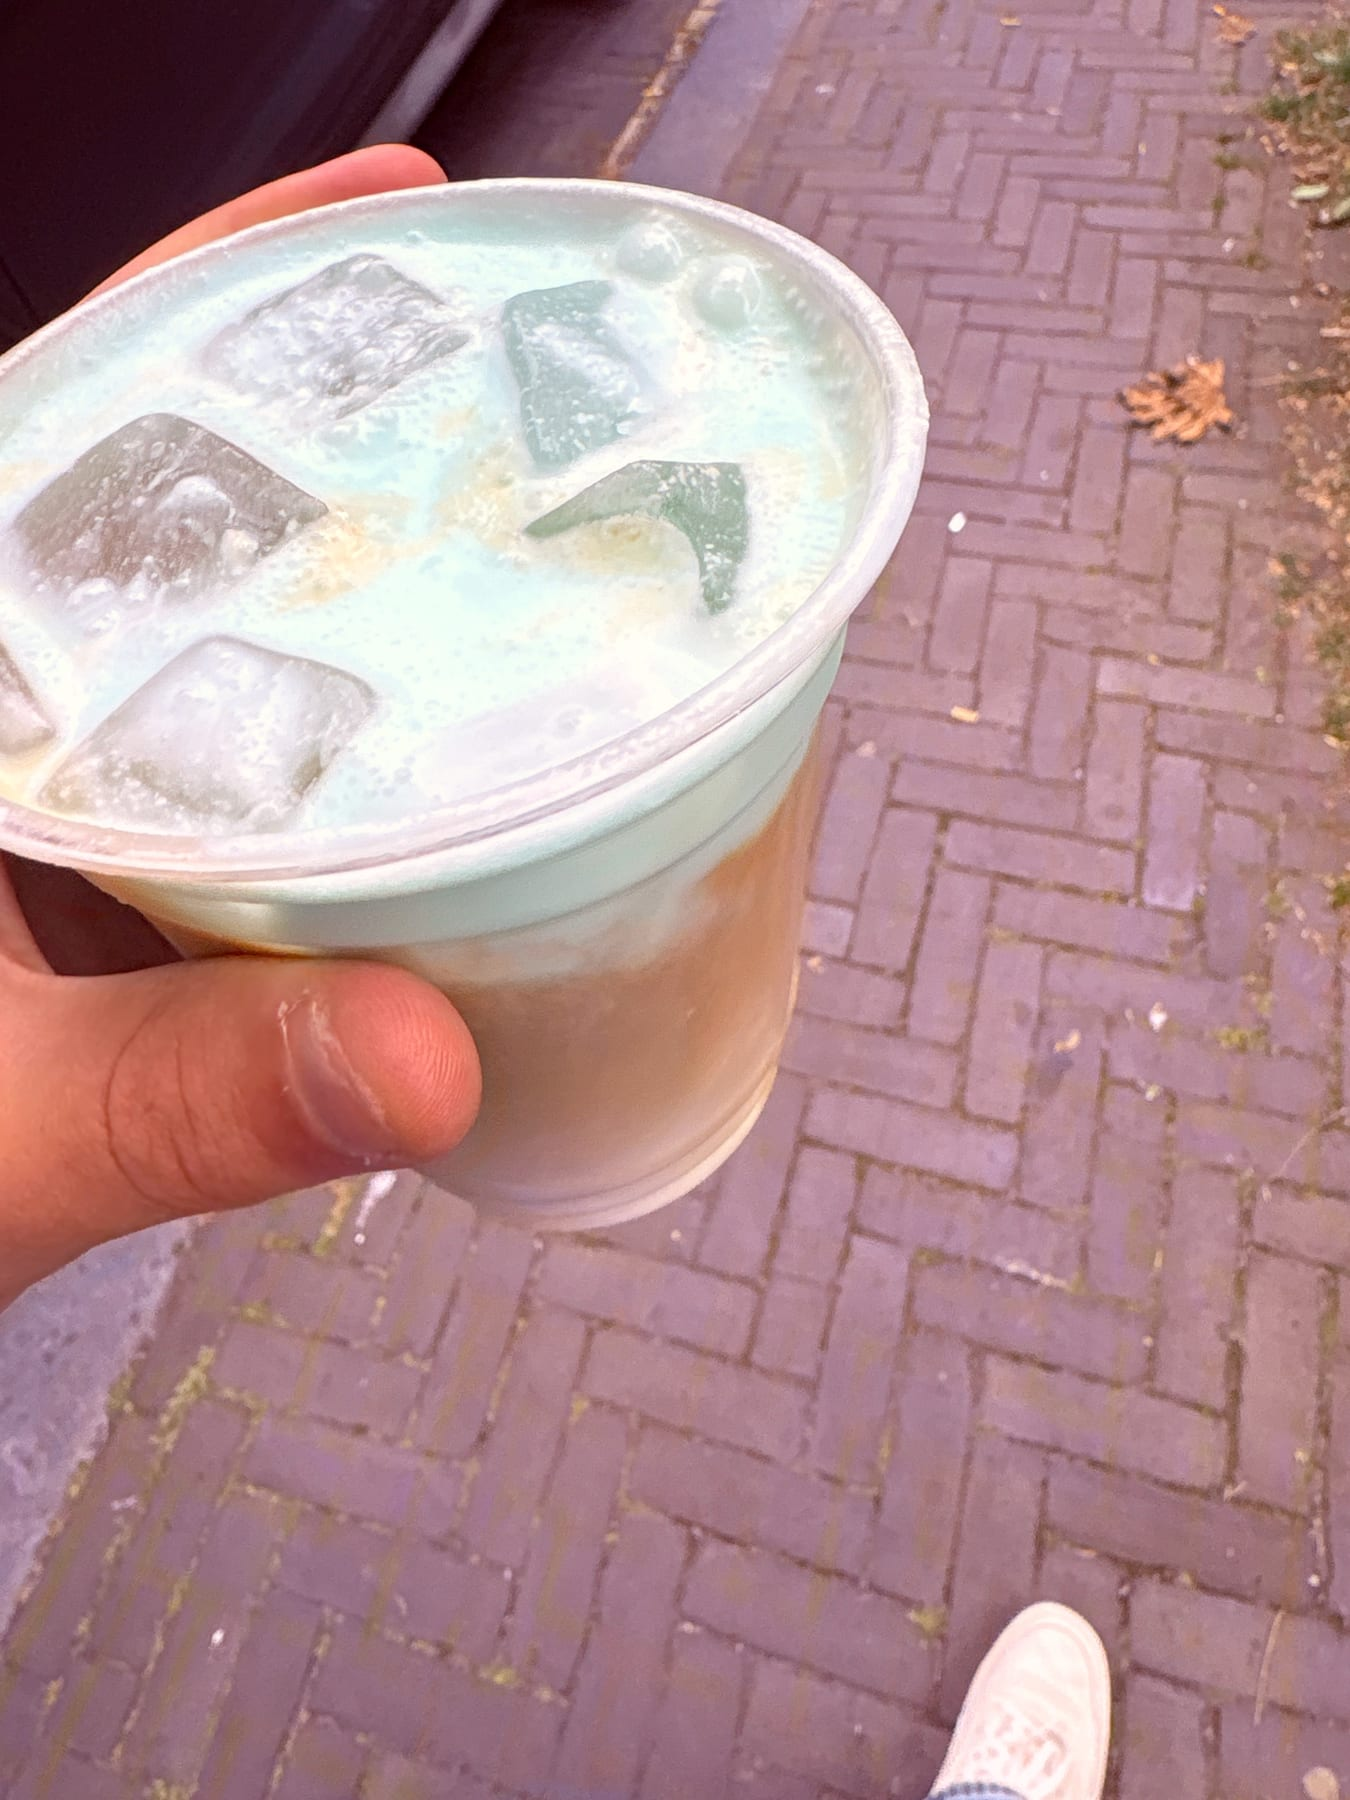
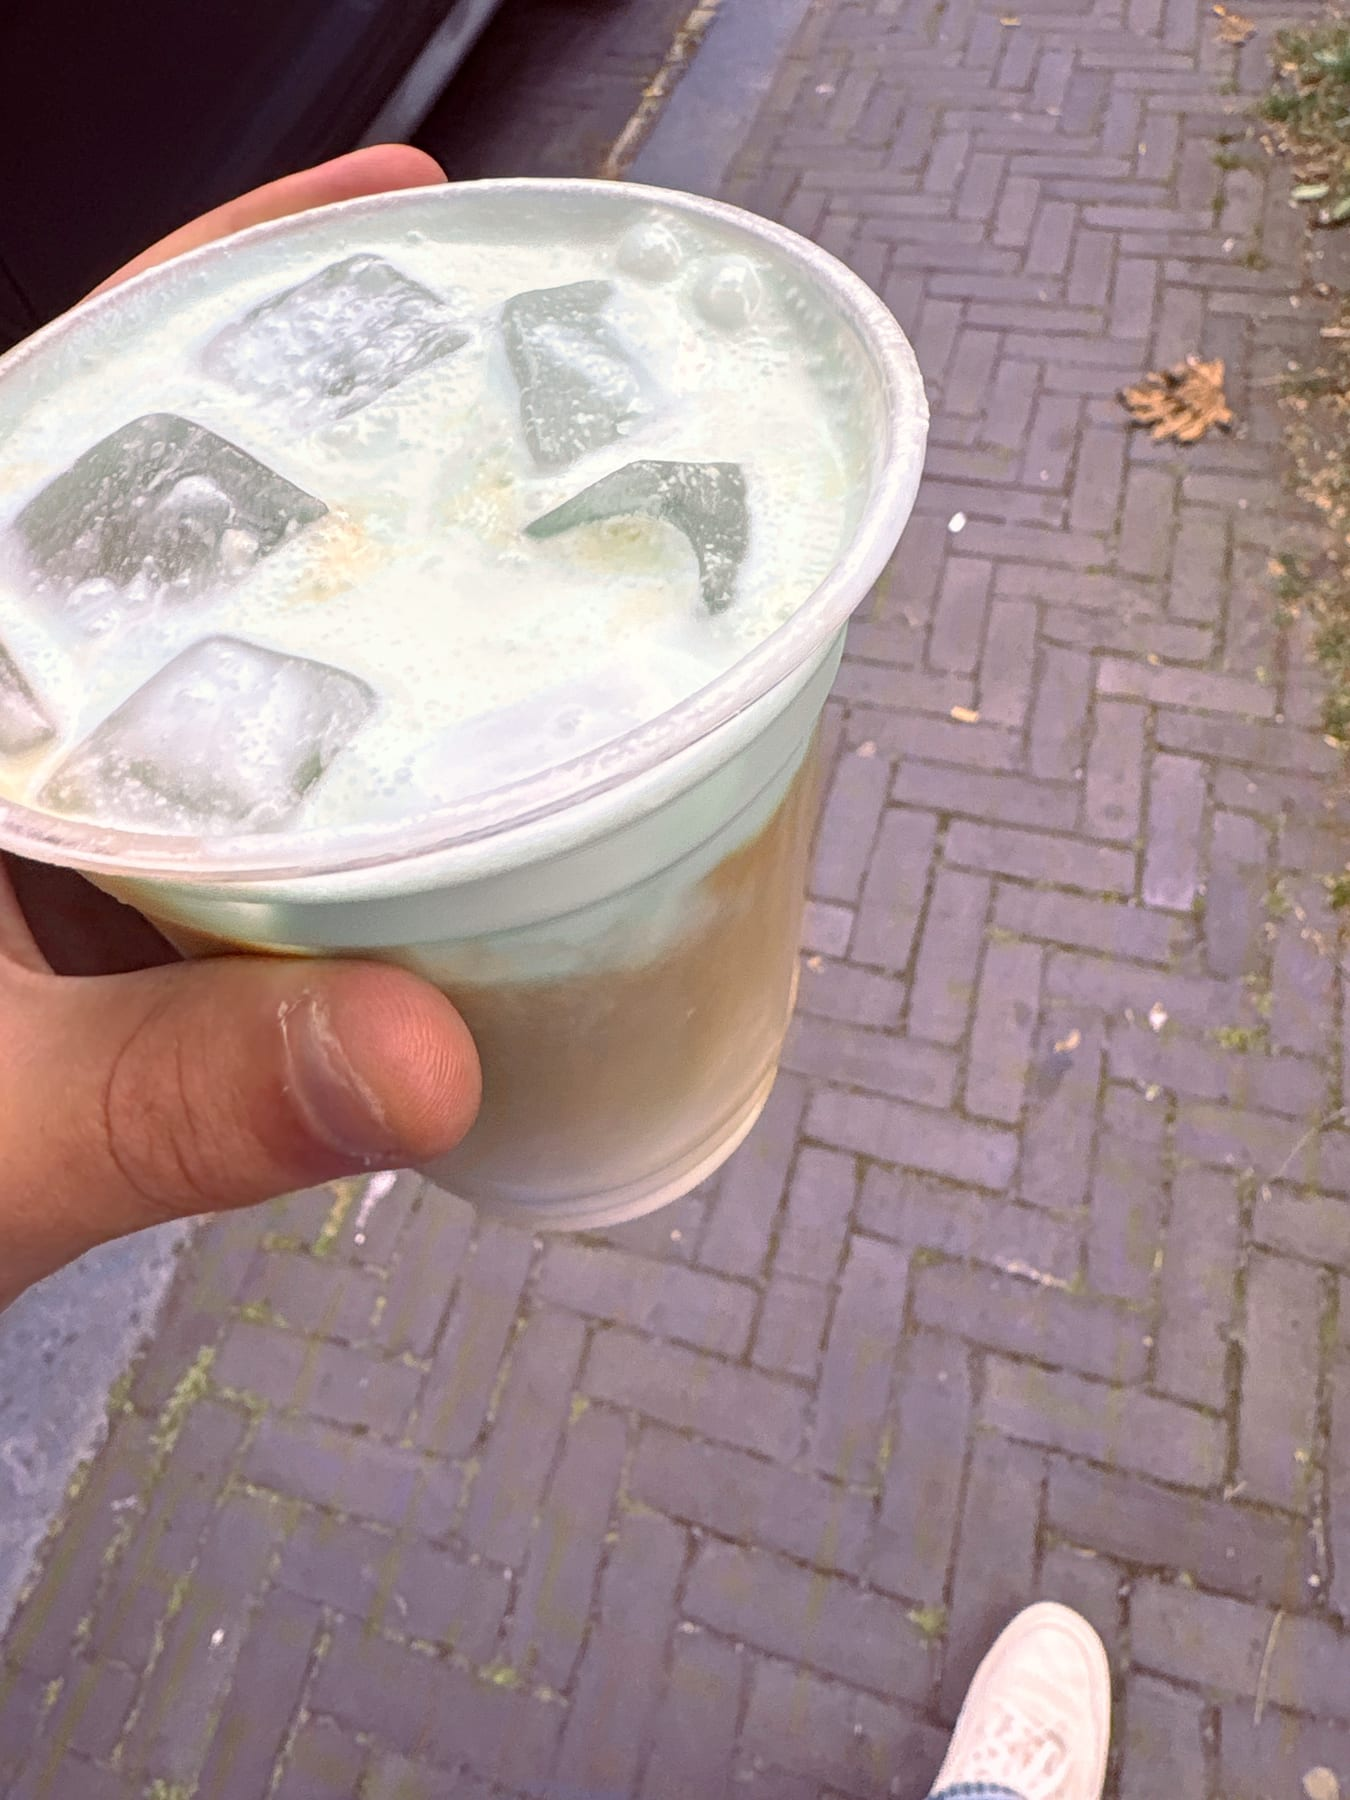
Fix the colour cast on the coconut coffee photo
The original had a split tint, cyan in the bright foam and magenta in
the mid-tones. Highlights and mid-tones are now balanced separately,
the cyan-green cast is taken out of the foam, and shadows get a gentle
lift. Caption updated to name the drink.

diff --git a/src/content/interests/coffee.md b/src/content/interests/coffee.md
@@ -10,7 +10,7 @@ photos:
   - src: /off-the-clock/Coffee/Stgermain.jpg
     caption: "Inside St. Germain."
   - src: /off-the-clock/Coffee/IMG_5381.jpg
-    caption: "Something green and iced, on the go."
+    caption: "A coconut coffee, on the go."
   - src: /off-the-clock/Coffee/IMG_5325.jpg
     caption: "A purple iced drink topped with crumble."
 ---
